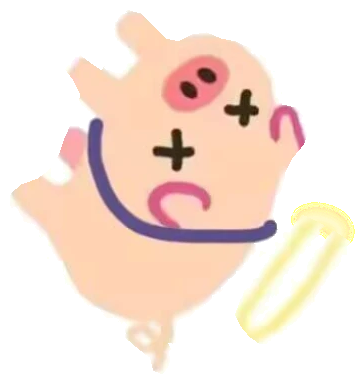
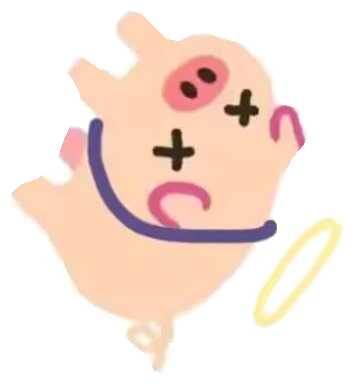
Soften hanging pig halo
Use the ghost pig's soft halo treatment while preserving the hanging pig artwork and opacity checks.\n\nCo-authored-by: Copilot <223556219+Copilot@users.noreply.github.com>

Changed region(s): [[0.6417, 0.5, 1.0, 0.9062]]

diff --git a/Tests/Smoke/SettingsSmokeTests.swift b/Tests/Smoke/SettingsSmokeTests.swift
@@ -8,16 +8,29 @@ extension SettingsWindowController {
             preconditionFailure("Hanging pig artwork dimensions are invalid")
         }
         let bitmap = NSBitmapImageRep(cgImage: cgImage)
+        let haloXRange = 235..<356
+        let haloYRange = 201..<344
+        var translucentHaloPixels = 0
+        var opaqueHaloPixels = 0
         for y in 0..<bitmap.pixelsHigh {
             for x in 0..<bitmap.pixelsWide {
                 guard let color = bitmap.colorAt(x: x, y: y)?.usingColorSpace(.deviceRGB) else {
                     preconditionFailure("Cannot inspect hanging pig artwork")
                 }
                 if color.alphaComponent > 0 {
-                    precondition(color.alphaComponent > 0.999, "Hanging pig foreground must not be translucent")
+                    if haloXRange.contains(x) && haloYRange.contains(y) {
+                        if color.alphaComponent < 0.999 {
+                            translucentHaloPixels += 1
+                        } else {
+                            opaqueHaloPixels += 1
+                        }
+                    } else {
+                        precondition(color.alphaComponent > 0.999, "Hanging pig body must not be translucent")
+                    }
                 }
             }
         }
+        precondition(translucentHaloPixels > 0 && opaqueHaloPixels > 0, "Hanging pig halo must retain soft edges")
 
         let xOrigin = 210
         let yOrigin = 180
@@ -30,7 +43,7 @@ extension SettingsWindowController {
                     .usingColorSpace(.deviceRGB) else {
                     preconditionFailure("Cannot inspect hanging pig halo")
                 }
-                halo[y * width + x] = color.alphaComponent > 0.999
+                halo[y * width + x] = color.alphaComponent > 0.5
                     && color.redComponent > 245.0 / 255
                     && color.greenComponent > 220.0 / 255
                     && color.blueComponent < 230.0 / 255

diff --git a/AGENTS.md b/AGENTS.md
@@ -8,7 +8,7 @@
 - 气球底部采用细窄圆头的短收口，让绳子自然接入；不画尖三角或向两侧外翻的底边，仅把尖角改圆仍会像箭头。以浅色背景实绘检查轮廓，不因此重绘气球主体。
 - 保留系统鼠标、点击穿透和非激活窗口行为，不申请辅助功能或屏幕录制权限。
 - 默认只运行一个挂件实例；仅在用户明确要求时多开，测试后恢复其要求的实例数。
-- 必须保留“绳子挂件 / 猪猪气球 / 网兜小猪 / 竹子小猪 / 猪上吊 / 幽灵猪”六种可保存模式，在设置和菜单栏切换；默认及恢复默认均为原绳子模式，原图向下悬挂。气球模式单进程内显示 1–8 只、默认数量 2，共用鼠标系绳点、向上漂浮；不加热气或喷气，不靠多开进程实现。猪上吊使用用户参考图提取的独立透明素材，主体与光环不额外降低透明度，黄色光环保持完整闭合，并沿用绳子物理向下悬挂；幽灵猪使用独立透明素材，不画绳子，在鼠标右上方平滑跟随并收敛后降低更新频率；两种素材的光环都须为完整闭合轮廓，只沿原淡色笔触局部补齐断口或修复透明度，不重绘主体。气球数量仅在气球模式生效，切换不覆盖已有调参。
+- 必须保留“绳子挂件 / 猪猪气球 / 网兜小猪 / 竹子小猪 / 猪上吊 / 幽灵猪”六种可保存模式，在设置和菜单栏切换；默认及恢复默认均为原绳子模式，原图向下悬挂。气球模式单进程内显示 1–8 只、默认数量 2，共用鼠标系绳点、向上漂浮；不加热气或喷气，不靠多开进程实现。猪上吊使用用户参考图提取的独立透明素材并沿用绳子物理向下悬挂；主体保持清晰，光环沿用幽灵猪的柔和闭合效果；幽灵猪使用独立透明素材，不画绳子，在鼠标右上方平滑跟随并收敛后降低更新频率；两种素材的光环都须为完整闭合轮廓，只沿原淡色笔触局部补齐断口或修复透明度，不重绘主体。气球数量仅在气球模式生效，切换不覆盖已有调参。
 - 网兜模式使用用户原动画的独立透明素材，保留帧序、画布和时长，不重绘角色；网线白灰杂块和断点仅依据原网线邻域局部修补，不封住正常透明网眼或改动表情。绳端接网兜顶部、向下悬挂。物理静止不冻结动画，隐藏和系统睡眠时停播，不影响原两种模式的空闲休眠。
 - 竹子模式使用用户竹子参考图提取的独立透明小猪，不重绘角色；只画从鼠标出发的一条连续竹子，不保留上方独立绳段或侧伸托钩。移动时连续平滑恢复到横向，停下后顺时针弯垂；鼠标上下快速反向和大位移不能令参考绳重置姿态、竹子闪帧或小猪跳切。弯曲角度与参考绳摆角均须平滑连续，停稳仍须保持根部偏横、末端下垂的明显弧度，不得收成整根竖直线，小猪头朝上贴抱末端。弯垂未完成不可提前休眠，隐藏或系统睡眠须暂停。沿用弹性绳受力参考并附加视觉过渡，不宣称为真实竹竿弯曲模拟；重绘范围按实际曲线覆盖竹叶与角色。检查连续大幅上下往返、停止恢复、三阶段完整轮廓、停稳曲率与两端切线，避免截图裁切掩盖姿态；透明素材须清理游离竹节色点。
 - 竹子动态时，横向的小猪默认位于竹身中点；“小猪位置”滑杆按竹根到竹梢的百分比调节并持久化。弯垂时从当前角度连续平滑转向，不因停顿或小于 1 点的鼠标抖动跳回横向，再沿竹身向下滑向竹梢，停稳后贴抱末端。
@@ -31,7 +31,7 @@
 - 构建同时生成 `dist/PigPendant-macOS-<架构>.zip`。设置或参数范围改变时验证控件动作、默认值、保存、布局、关闭行为及物理参数极值；模式参数改动验证旧值迁移、跨模式隔离和重启恢复，测试后还原用户设置。
 - 修改物理逻辑后验证固定 120 Hz 步长、不同输入帧率、快速转向、大位移锚点、长度调节连续过渡、绳长约束、暂停恢复和静止收敛；竹子另验证大幅垂直往返中逐帧姿态连续。
 - 多气球改动须检查全部绳端与运动状态后再休眠，验证数量上下限、共同锚点、向上浮力及非首气球的活动状态；不把单气球通过当作整束通过。
-- 模式改动验证设置和菜单真实切换、保存、受力方向、独立素材及六种实绘截图；猪上吊实绘需检查所有可见素材像素不透明且黄色光环闭合。默认绳子模式的 GUI 检查不能代替八只气球的活动/休眠回归、网兜动画的静止播放与暂停恢复、竹子模式的休眠/恢复或幽灵猪的无绳跟随及偏移控件回归。构建检查所有模式素材均完整打包。
+- 模式改动验证设置和菜单真实切换、保存、受力方向、独立素材及六种实绘截图；猪上吊实绘需检查主体清晰不透明、光环保留柔和边缘且闭合。默认绳子模式的 GUI 检查不能代替八只气球的活动/休眠回归、网兜动画的静止播放与暂停恢复、竹子模式的休眠/恢复或幽灵猪的无绳跟随及偏移控件回归。构建检查所有模式素材均完整打包。
 - AppKit 全局坐标以点为单位、向上为正；绘图减去对应屏幕面板原点，不手动乘 Retina 比例，不假设所有显示器坐标非负。
 - 编译不等于 GUI 验证。多屏、真实点击穿透、焦点、全屏、Spaces 和主观摆动效果需要实机确认，报告中区分代码检查、自动测试与人工观察。
 - 不覆盖用户已有修改；生成产物和日志留在忽略的 `dist/` 中。

diff --git a/README.md b/README.md
@@ -14,7 +14,7 @@
 - **猪猪气球**：显示 1–8 只向上漂浮的猪气球，默认 2 只。
 - **网兜小猪**：带循环动画的小猪网兜。
 - **竹子小猪**：小猪抱着随鼠标动作弯垂的竹子。
-- **猪上吊**：小猪通过绳子悬挂；主体不额外降低透明度，黄色光环保持完整闭合。
+- **猪上吊**：小猪通过绳子悬挂；主体保持清晰，光环采用与幽灵猪一致的柔和闭合效果。
 - **幽灵猪**：不带绳子，平滑跟随鼠标。
 
 ## 使用
